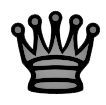
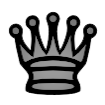
image pions sur cases

Changed region(s): [[0.0857, 0.0857, 0.9714, 0.9143]]

diff --git a/package_code/fenetre_jeu.py b/package_code/fenetre_jeu.py
@@ -8,11 +8,27 @@ from jeu import*
 ## ---------------------------- JEU UI ------------------------------ ##
 
 window = Tk()
-window.iconbitmap('images pions/logo.ico')
-window.title(" Projet NSI n°1  -  Jeu d'Echec")
+
+photo_vide = PhotoImage(file="images pions/vide.png")
+photo_pions_noir = PhotoImage(file="images pions/pions_noir.png")
+photo_pions_blanc = PhotoImage(file="images pions/pions blanc.png")
+photo_tour_noir = PhotoImage(file="images pions/tours noir.png")
+photo_tour_blanc = PhotoImage(file="images pions/tours blanc.png")
+photo_cavalier_noir = PhotoImage(file="images pions/dada noir.png")
+photo_cavalier_blanc = PhotoImage(file="images pions/dada blanc.png")
+photo_fou_noir = PhotoImage(file="images pions/fou noir .png")
+photo_fou_blanc = PhotoImage(file="images pions/fou blanc.png")
+photo_dame_noir = PhotoImage(file="images pions/reine noir .png")
+photo_dame_blanc = PhotoImage(file="images pions/reine blanc.png")
+photo_roi_noir = PhotoImage(file="images pions/roi noir .png")
+photo_roi_blanc = PhotoImage(file="images pions/roi blanc.png")
+
+window.title("Jeu")
 window.geometry("900x900")
 window.minsize(900, 900)
 window.config(bg='#C0C0C0')
+window.iconbitmap('images pions/logo.ico')
+window.title(" Projet NSI n°1  -  Jeu d'Echec")
 
 frame = Frame(window)
 
@@ -145,70 +161,70 @@ def button63():
 def button64():
     return "H8"
 
-button1 = Button(frame, bg="#8B4513", width=8, height= 4, command = button1)
-button2 = Button(frame, bg="#FFDEAD", width=8, height= 4, command = button2)
-button3 = Button(frame, bg="#8B4513", width=8, height= 4, command = button3)
-button4 = Button(frame, bg="#FFDEAD", width=8, height= 4, command = button4)
-button5 = Button(frame, bg="#8B4513", width=8, height= 4, command = button5)
-button6 = Button(frame, bg="#FFDEAD", width=8, height= 4, command = button6)
-button7 = Button(frame, bg="#8B4513", width=8, height= 4, command = button7)
-button8 = Button(frame, bg="#FFDEAD", width=8, height= 4, command = button8)
-button9 = Button(frame, bg="#FFDEAD", width=8, height= 4, command = button9)
-button10 = Button(frame, bg="#8B4513", width=8, height= 4, command = button10)
-button11 = Button(frame, bg="#FFDEAD", width=8, height= 4, command = button11)
-button12 = Button(frame, bg="#8B4513", width=8, height= 4, command = button12)
-button13 = Button(frame, bg="#FFDEAD", width=8, height= 4, command = button13)
-button14 = Button(frame, bg="#8B4513", width=8, height= 4, command = button14)
-button15 = Button(frame, bg="#FFDEAD", width=8, height= 4, command = button15)
-button16 = Button(frame, bg="#8B4513", width=8, height= 4, command = button16)
-button17 = Button(frame, bg="#8B4513", width=8, height= 4, command = button17)
-button18 = Button(frame, bg="#FFDEAD", width=8, height= 4, command = button18)
-button19 = Button(frame, bg="#8B4513", width=8, height= 4, command = button19)
-button20 = Button(frame, bg="#FFDEAD", width=8, height= 4, command = button20)
-button21 = Button(frame, bg="#8B4513", width=8, height= 4, command = button21)
-button22 = Button(frame, bg="#FFDEAD", width=8, height= 4, command = button22)
-button23 = Button(frame, bg="#8B4513", width=8, height= 4, command = button23)
-button24 = Button(frame, bg="#FFDEAD", width=8, height= 4, command = button24)
-button25 = Button(frame, bg="#FFDEAD", width=8, height= 4, command = button25)
-button26 = Button(frame, bg="#8B4513", width=8, height= 4, command = button26)
-button27 = Button(frame, bg="#FFDEAD", width=8, height= 4, command = button27)
-button28 = Button(frame, bg="#8B4513", width=8, height= 4, command = button28)
-button29 = Button(frame, bg="#FFDEAD", width=8, height= 4, command = button29)
-button30 = Button(frame, bg="#8B4513", width=8, height= 4, command = button30)
-button31 = Button(frame, bg="#FFDEAD", width=8, height= 4, command = button31)
-button32 = Button(frame, bg="#8B4513", width=8, height= 4, command = button32)
-button33 = Button(frame, bg="#8B4513", width=8, height= 4, command = button33)
-button34 = Button(frame, bg="#FFDEAD", width=8, height= 4, command = button34)
-button35 = Button(frame, bg="#8B4513", width=8, height= 4, command = button35)
-button36 = Button(frame, bg="#FFDEAD", width=8, height= 4, command = button36)
-button37 = Button(frame, bg="#8B4513", width=8, height= 4, command = button37)
-button38 = Button(frame, bg="#FFDEAD", width=8, height= 4, command = button38)
-button39 = Button(frame, bg="#8B4513", width=8, height= 4, command = button39)
-button40 = Button(frame, bg="#FFDEAD", width=8, height= 4, command = button40)
-button41 = Button(frame, bg="#FFDEAD", width=8, height= 4, command = button41)
-button42 = Button(frame, bg="#8B4513", width=8, height= 4, command = button42)
-button43 = Button(frame, bg="#FFDEAD", width=8, height= 4, command = button43)
-button44 = Button(frame, bg="#8B4513", width=8, height= 4, command = button44)
-button45 = Button(frame, bg="#FFDEAD", width=8, height= 4, command = button45)
-button46 = Button(frame, bg="#8B4513", width=8, height= 4, command = button46)
-button47 = Button(frame, bg="#FFDEAD", width=8, height= 4, command = button47)
-button48 = Button(frame, bg="#8B4513", width=8, height= 4, command = button48)
-button49 = Button(frame, bg="#8B4513", width=8, height= 4, command = button49)
-button50 = Button(frame, bg="#FFDEAD", width=8, height= 4, command = button50)
-button51 = Button(frame, bg="#8B4513", width=8, height= 4, command = button51)
-button52 = Button(frame, bg="#FFDEAD", width=8, height= 4, command = button52)
-button53 = Button(frame, bg="#8B4513", width=8, height= 4, command = button53)
-button54 = Button(frame, bg="#FFDEAD", width=8, height= 4, command = button54)
-button55 = Button(frame, bg="#8B4513", width=8, height= 4, command = button55)
-button56 = Button(frame, bg="#FFDEAD", width=8, height= 4, command = button56)
-button57 = Button(frame, bg="#FFDEAD", width=8, height= 4, command = button57)
-button58 = Button(frame, bg="#8B4513", width=8, height= 4, command = button58)
-button59 = Button(frame, bg="#FFDEAD", width=8, height= 4, command = button59)
-button60 = Button(frame, bg="#8B4513", width=8, height= 4, command = button60)
-button61 = Button(frame, bg="#FFDEAD", width=8, height= 4, command = button61)
-button62 = Button(frame, bg="#8B4513", width=8, height= 4, command = button62)
-button63 = Button(frame, bg="#FFDEAD", width=8, height= 4, command = button63)
-button64 = Button(frame, bg="#8B4513", width=8, height= 4, command = button64)
+button1 = Button(frame, bg="#8B4513", width=100, height= 100, command = button1, image = photo_pions_noir)
+button2 = Button(frame, bg="#FFDEAD", width=100, height= 100, command = button2, image = photo_pions_noir)
+button3 = Button(frame, bg="#8B4513", width=100, height= 100, command = button3, image = photo_pions_noir)
+button4 = Button(frame, bg="#FFDEAD", width=100, height= 100, command = button4, image = photo_pions_noir)
+button5 = Button(frame, bg="#8B4513", width=100, height= 100, command = button5, image = photo_pions_noir)
+button6 = Button(frame, bg="#FFDEAD", width=100, height= 100, command = button6, image = photo_pions_noir)
+button7 = Button(frame, bg="#8B4513", width=100, height= 100, command = button7, image = photo_pions_noir)
+button8 = Button(frame, bg="#FFDEAD", width=100, height= 100, command = button8, image = photo_pions_noir)
+button9 = Button(frame, bg="#FFDEAD", width=100, height= 100, command = button9, image = photo_pions_noir)
+button10 = Button(frame, bg="#8B4513", width=100, height= 100, command = button10, image = photo_pions_noir)
+button11 = Button(frame, bg="#FFDEAD", width=100, height= 100, command = button11, image = photo_pions_noir)
+button12 = Button(frame, bg="#8B4513", width=100, height= 100, command = button12, image = photo_pions_noir)
+button13 = Button(frame, bg="#FFDEAD", width=100, height= 100, command = button13, image = photo_pions_noir)
+button14 = Button(frame, bg="#8B4513", width=100, height= 100, command = button14, image = photo_pions_noir)
+button15 = Button(frame, bg="#FFDEAD", width=100, height= 100, command = button15, image = photo_pions_noir)
+button16 = Button(frame, bg="#8B4513", width=100, height= 100, command = button16, image = photo_pions_noir)
+button17 = Button(frame, bg="#8B4513", width=100, height= 100, command = button17, image = photo_vide)
+button18 = Button(frame, bg="#FFDEAD", width=100, height= 100, command = button18, image = photo_vide)
+button19 = Button(frame, bg="#8B4513", width=100, height= 100, command = button19, image = photo_vide)
+button20 = Button(frame, bg="#FFDEAD", width=100, height= 100, command = button20, image = photo_vide)
+button21 = Button(frame, bg="#8B4513", width=100, height= 100, command = button21, image = photo_vide)
+button22 = Button(frame, bg="#FFDEAD", width=100, height= 100, command = button22, image = photo_vide)
+button23 = Button(frame, bg="#8B4513", width=100, height= 100, command = button23, image = photo_vide)
+button24 = Button(frame, bg="#FFDEAD", width=100, height= 100, command = button24, image = photo_vide)
+button25 = Button(frame, bg="#FFDEAD", width=100, height= 100, command = button25, image = photo_vide)
+button26 = Button(frame, bg="#8B4513", width=100, height= 100, command = button26, image = photo_vide)
+button27 = Button(frame, bg="#FFDEAD", width=100, height= 100, command = button27, image = photo_vide)
+button28 = Button(frame, bg="#8B4513", width=100, height= 100, command = button28, image = photo_vide)
+button29 = Button(frame, bg="#FFDEAD", width=100, height= 100, command = button29, image = photo_vide)
+button30 = Button(frame, bg="#8B4513", width=100, height= 100, command = button30, image = photo_vide)
+button31 = Button(frame, bg="#FFDEAD", width=100, height= 100, command = button31, image = photo_vide)
+button32 = Button(frame, bg="#8B4513", width=100, height= 100, command = button32, image = photo_vide)
+button33 = Button(frame, bg="#8B4513", width=100, height= 100, command = button33, image = photo_vide)
+button34 = Button(frame, bg="#FFDEAD", width=100, height= 100, command = button34, image = photo_vide)
+button35 = Button(frame, bg="#8B4513", width=100, height= 100, command = button35, image = photo_vide)
+button36 = Button(frame, bg="#FFDEAD", width=100, height= 100, command = button36, image = photo_vide)
+button37 = Button(frame, bg="#8B4513", width=100, height= 100, command = button37, image = photo_vide)
+button38 = Button(frame, bg="#FFDEAD", width=100, height= 100, command = button38, image = photo_vide)
+button39 = Button(frame, bg="#8B4513", width=100, height= 100, command = button39, image = photo_vide)
+button40 = Button(frame, bg="#FFDEAD", width=100, height= 100, command = button40, image = photo_vide)
+button41 = Button(frame, bg="#FFDEAD", width=100, height= 100, command = button41, image = photo_vide)
+button42 = Button(frame, bg="#8B4513", width=100, height= 100, command = button42, image = photo_vide)
+button43 = Button(frame, bg="#FFDEAD", width=100, height= 100, command = button43, image = photo_vide)
+button44 = Button(frame, bg="#8B4513", width=100, height= 100, command = button44, image = photo_vide)
+button45 = Button(frame, bg="#FFDEAD", width=100, height= 100, command = button45, image = photo_vide)
+button46 = Button(frame, bg="#8B4513", width=100, height= 100, command = button46, image = photo_vide)
+button47 = Button(frame, bg="#FFDEAD", width=100, height= 100, command = button47, image = photo_vide)
+button48 = Button(frame, bg="#8B4513", width=100, height= 100, command = button48, image = photo_vide)
+button49 = Button(frame, bg="#8B4513", width=100, height= 100, command = button49, image = photo_pions_blanc)
+button50 = Button(frame, bg="#FFDEAD", width=100, height= 100, command = button50, image = photo_pions_blanc)
+button51 = Button(frame, bg="#8B4513", width=100, height= 100, command = button51, image = photo_pions_blanc)
+button52 = Button(frame, bg="#FFDEAD", width=100, height= 100, command = button52, image = photo_pions_blanc)
+button53 = Button(frame, bg="#8B4513", width=100, height= 100, command = button53, image = photo_pions_blanc)
+button54 = Button(frame, bg="#FFDEAD", width=100, height= 100, command = button54, image = photo_pions_blanc)
+button55 = Button(frame, bg="#8B4513", width=100, height= 100, command = button55, image = photo_pions_blanc)
+button56 = Button(frame, bg="#FFDEAD", width=100, height= 100, command = button56, image = photo_pions_blanc)
+button57 = Button(frame, bg="#FFDEAD", width=100, height= 100, command = button57, image = photo_pions_blanc)
+button58 = Button(frame, bg="#8B4513", width=100, height= 100, command = button58, image = photo_pions_blanc)
+button59 = Button(frame, bg="#FFDEAD", width=100, height= 100, command = button59, image = photo_pions_blanc)
+button60 = Button(frame, bg="#8B4513", width=100, height= 100, command = button60, image = photo_pions_blanc)
+button61 = Button(frame, bg="#FFDEAD", width=100, height= 100, command = button61, image = photo_pions_blanc)
+button62 = Button(frame, bg="#8B4513", width=100, height= 100, command = button62, image = photo_pions_blanc)
+button63 = Button(frame, bg="#FFDEAD", width=100, height= 100, command = button63, image = photo_pions_blanc)
+button64 = Button(frame, bg="#8B4513", width=100, height= 100, command = button64, image = photo_pions_blanc)
 
 button1.grid(column=0, row=0)
 button2.grid(column=1, row=0)

diff --git a/package_code/jeu.py b/package_code/jeu.py
@@ -67,4 +67,4 @@ def lancer(J1: str, J2: str) -> None:
 
     return None
 
-lancer('Florent', 'Clement')
+##lancer('Florent', 'Clement')
